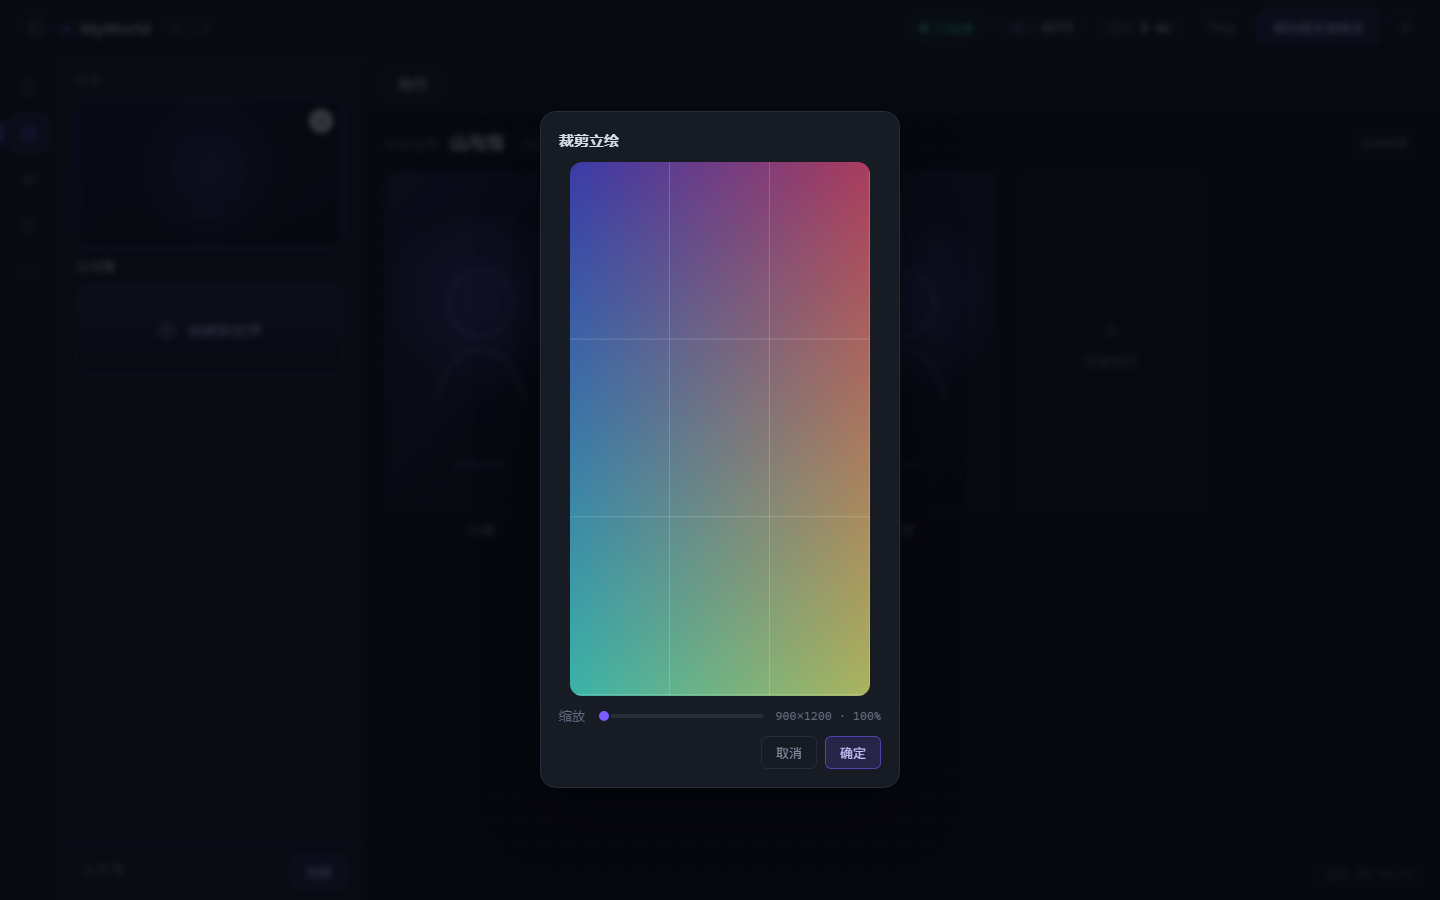
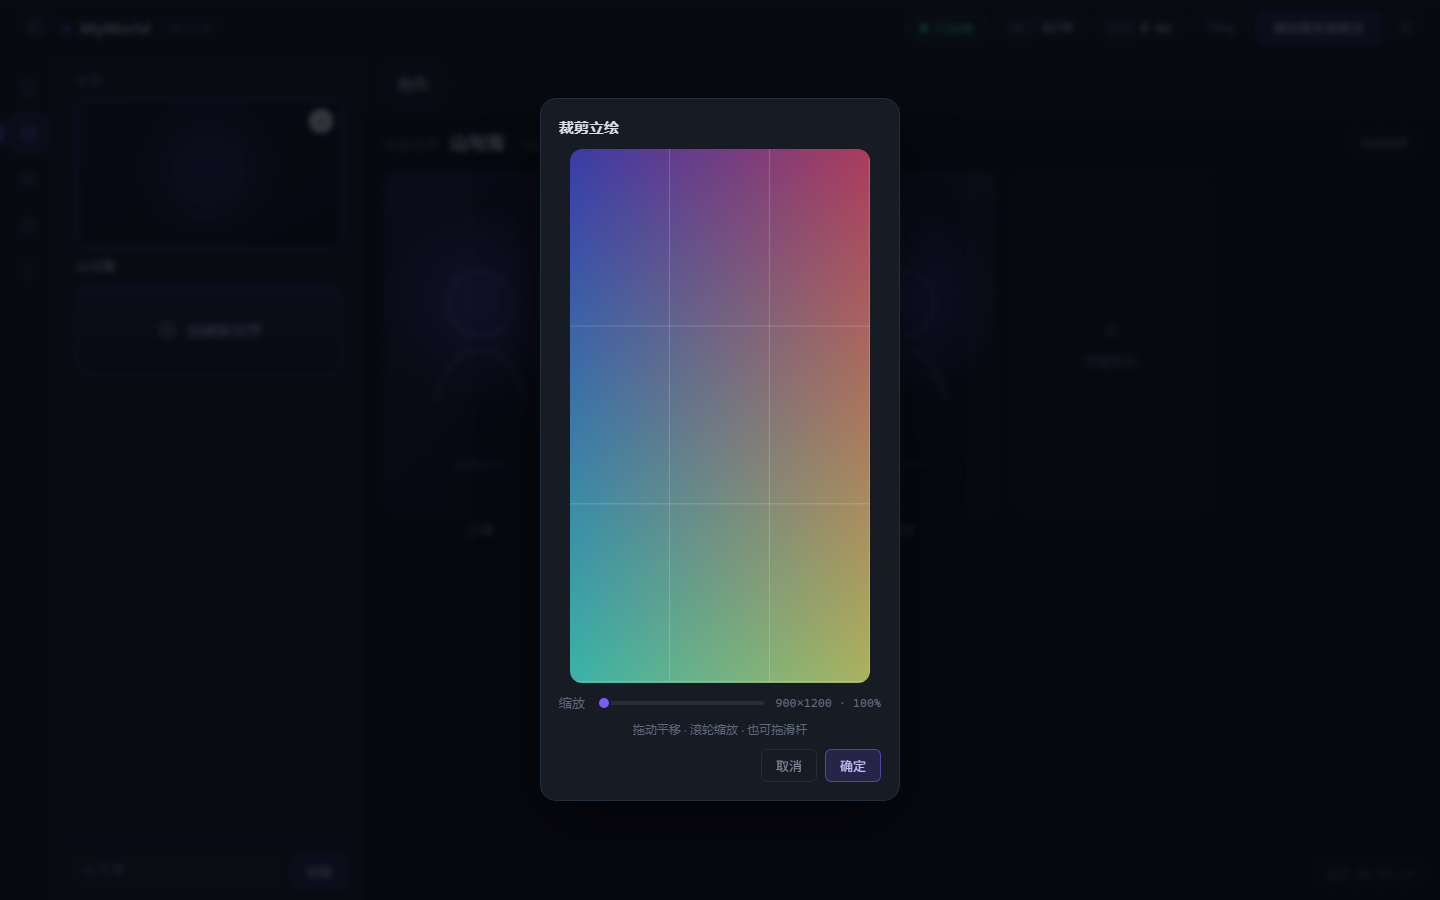
feat: 裁剪弹窗支持鼠标滚轮缩放
- 滚轮以指针位置为锚点缩放：向上放大、向下缩小，每次 10%
- 缩放范围锁在 100%–300%，与滑杆联动（滚轮后滑杆同步）
- 新增一行提示「拖动平移 · 滚轮缩放 · 也可拖滑杆」；滑杆与尺寸文字不再换行
- 裁剪截图同步更新

Changed region(s): [[0.375, 0.7467, 0.625, 0.9022], [0.375, 0.1244, 0.625, 0.1867], [0.4375, 0.8089, 0.5, 0.84]]

diff --git a/web/js/app.js b/web/js/app.js
@@ -678,16 +678,44 @@
     }
   }
 
-  function setCoverZoom(percent) {
+  function setCoverZoom(percent, anchor) {
     if (!cover.img) return;
-    // 以画面中心为锚点缩放
-    const cx = (cover.frame.w / 2 - cover.offset.x) / cover.scale;
-    const cy = (cover.frame.h / 2 - cover.offset.y) / cover.scale;
-    cover.scale = cover.minScale * (percent / 100);
-    cover.offset.x = cover.frame.w / 2 - cx * cover.scale;
-    cover.offset.y = cover.frame.h / 2 - cy * cover.scale;
+
+    const clamped = Math.min(300, Math.max(100, percent));
+    // 以锚点（默认画面中心）为基准缩放，滚轮时用鼠标位置
+    const px = anchor ? anchor.x : cover.frame.w / 2;
+    const py = anchor ? anchor.y : cover.frame.h / 2;
+    const srcX = (px - cover.offset.x) / cover.scale;
+    const srcY = (py - cover.offset.y) / cover.scale;
+
+    cover.scale = cover.minScale * (clamped / 100);
+    cover.offset.x = px - srcX * cover.scale;
+    cover.offset.y = py - srcY * cover.scale;
+
     clampCover();
     applyCoverTransform();
+    if (el.cropZoom) el.cropZoom.value = String(Math.round(clamped));
+  }
+
+  /* 鼠标滚轮缩放：以指针所在位置为锚点，向上放大、向下缩小 */
+  function initCropWheel() {
+    const frame = el.cropFrame;
+    if (!frame) return;
+
+    frame.addEventListener(
+      "wheel",
+      (event) => {
+        if (!cover.img || !el.cropDialog?.open) return;
+        event.preventDefault();
+
+        const rect = frame.getBoundingClientRect();
+        const anchor = { x: event.clientX - rect.left, y: event.clientY - rect.top };
+        const current = Number(el.cropZoom?.value ?? 100);
+        const step = event.deltaY < 0 ? 10 : -10;
+        setCoverZoom(current + step, anchor);
+      },
+      { passive: false },
+    );
   }
 
   function openCropDialog(file) {
@@ -1183,6 +1211,7 @@
   on(el.btnCropCancel, "click", () => el.cropDialog?.close());
   on(el.btnCropApply, "click", applyCrop);
   initCropDrag();
+  initCropWheel();
   refreshStatus();
   loadConfig();
   loadWorlds();

diff --git a/web/css/style.css b/web/css/style.css
@@ -966,6 +966,7 @@ body {
   color: var(--text-faint);
   font-family: var(--mono);
   font-size: var(--fs-tiny);
+  white-space: nowrap;
 }
 
 /* ---------- 裁剪 ---------- */
@@ -1017,8 +1018,17 @@ body {
 }
 
 .crop-label {
+  flex: 0 0 auto;
   color: var(--text-faint);
   font-size: var(--fs-small);
+  white-space: nowrap;
+}
+
+.crop-hint {
+  margin: -2px 0 0;
+  color: var(--text-faint);
+  font-size: var(--fs-tiny);
+  text-align: center;
 }
 
 .crop-zoom {

diff --git a/web/index.html b/web/index.html
@@ -285,6 +285,7 @@
         <input class="crop-zoom" id="cropZoom" type="range" min="100" max="300" value="100" aria-label="缩放" />
         <span class="cover-meta" id="cropMeta"></span>
       </div>
+      <p class="crop-hint">拖动平移 · 滚轮缩放 · 也可拖滑杆</p>
 
       <div class="dialog-actions">
         <button class="btn ghost" type="button" id="btnCropCancel">取消</button>

diff --git a/README.md b/README.md
@@ -108,7 +108,7 @@ data/
 
 ![创建弹窗](docs/screenshot-dialog.png)
 
-弹窗里可以顺便挑封面：点左边虚线框选一张本地图片，会弹出**裁剪窗口**（拖动平移、滑杆缩放、九宫格参考），确定后得到 960×540 的封面；也可以不选，之后往世界目录放 `thumbnail.png` 一样有效。
+弹窗里可以顺便挑封面：点左边虚线框选一张本地图片，会弹出**裁剪窗口**（拖动平移、**滚轮或滑杆缩放**、九宫格参考），确定后得到 960×540 的封面；也可以不选，之后往世界目录放 `thumbnail.png` 一样有效。
 
 ![裁剪封面](docs/screenshot-crop.png)
 
@@ -171,7 +171,7 @@ data/山与海/
 
 默认立绘也有深浅两版，切主题自动换；想换自己的立绘用 `POST /api/worlds/{世界}/characters/{角色}/portrait`（PNG/JPEG/WebP，≤5 MB）。
 
-新建角色时就能顺手导入立绘：点虚线框选一张本地图片，会弹出 **9:16 裁剪**窗口（拖动平移、滑杆缩放、九宫格参考），确定后随角色一起上传。在角色卡上**右键**可以删除该角色（连同立绘等文件，确认后不可恢复）。
+新建角色时就能顺手导入立绘：点虚线框选一张本地图片，会弹出 **9:16 裁剪**窗口（拖动平移、**滚轮或滑杆缩放**、九宫格参考），确定后随角色一起上传。在角色卡上**右键**可以删除该角色（连同立绘等文件，确认后不可恢复）。
 
 ![裁剪角色立绘](docs/screenshot-crop-portrait.png)
 
